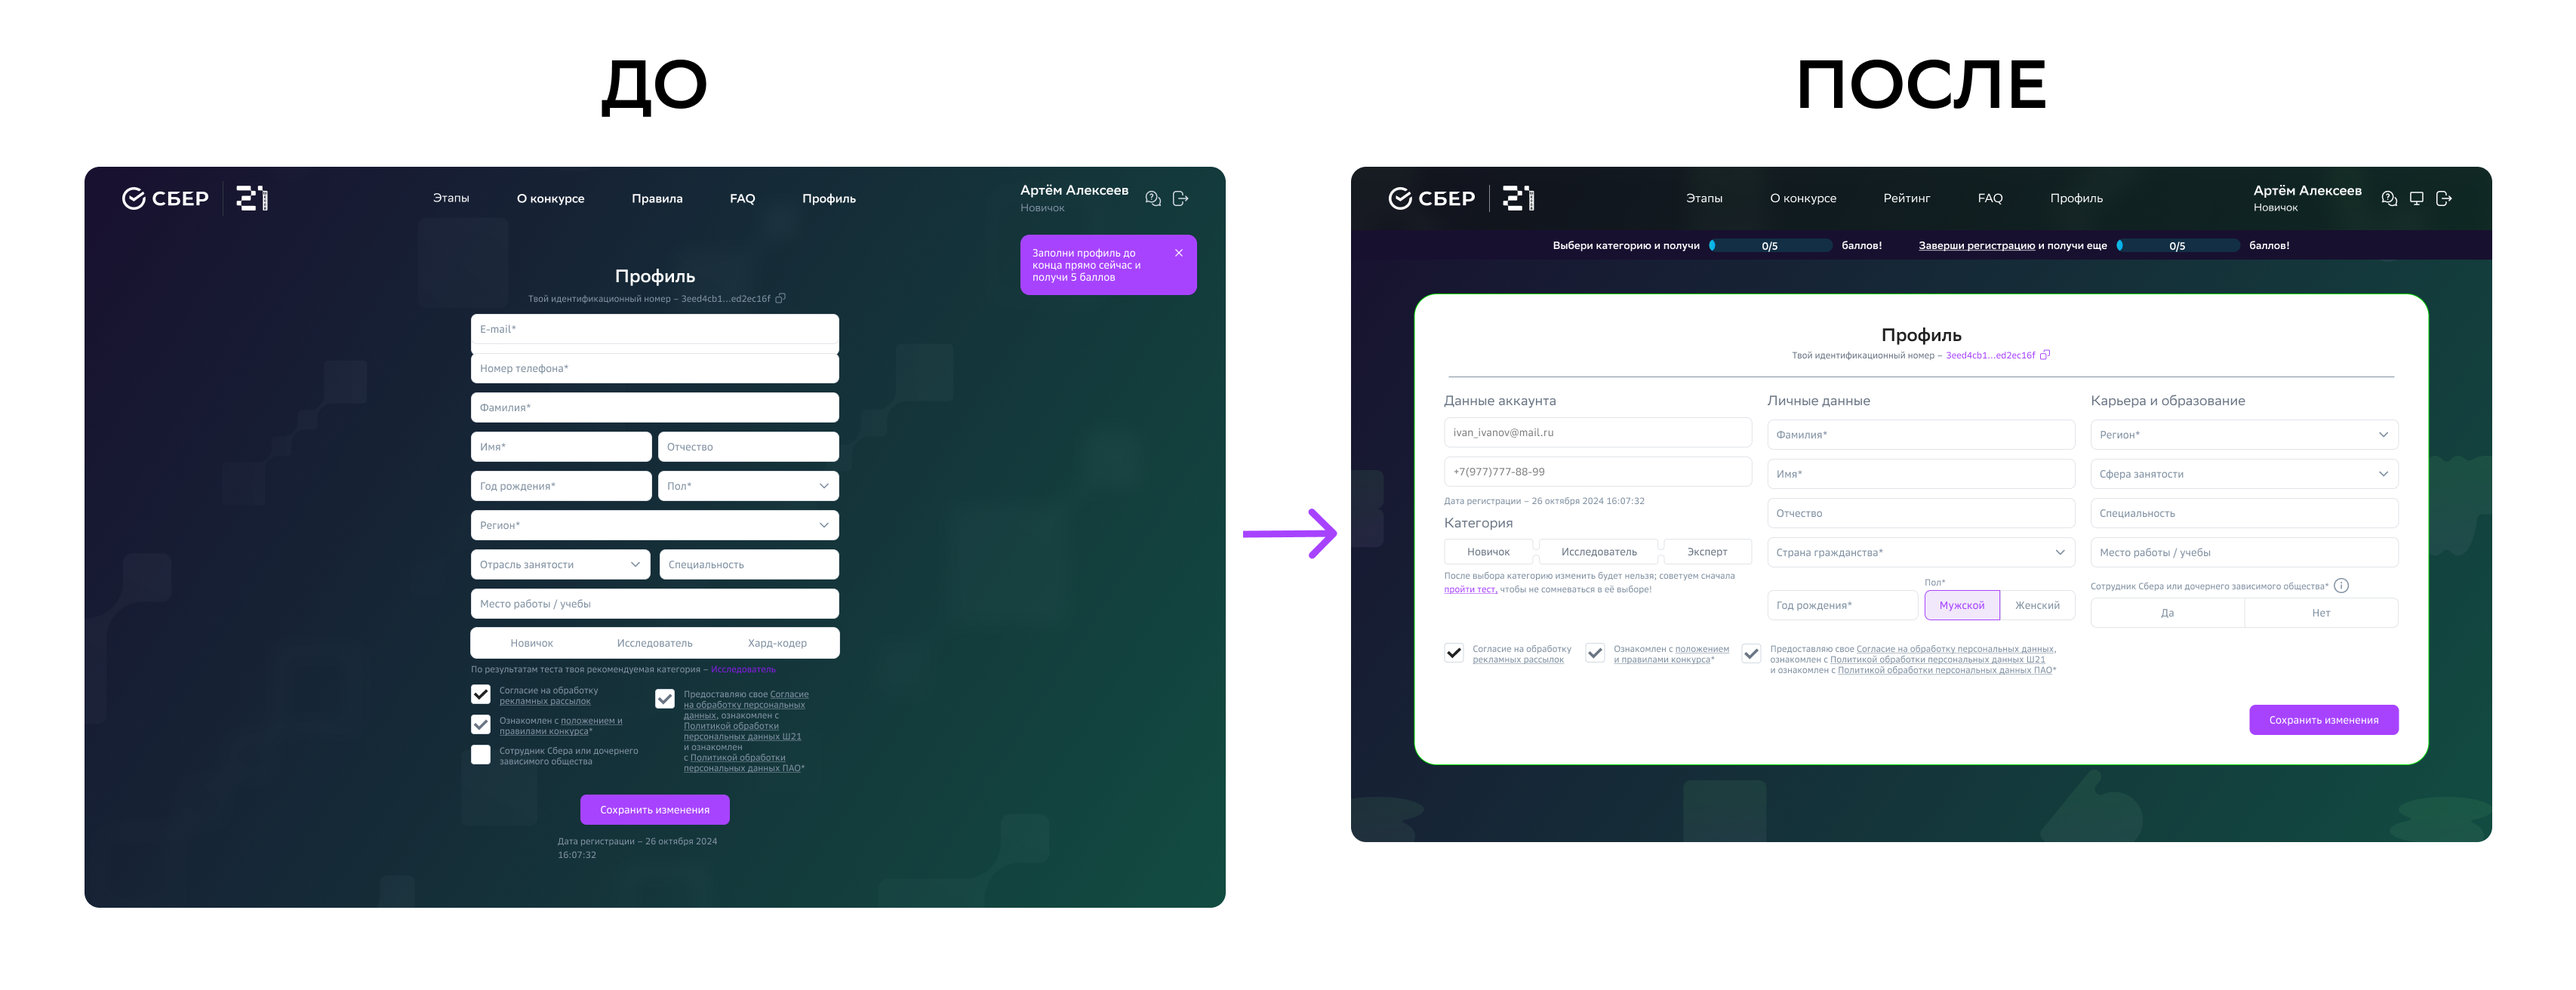
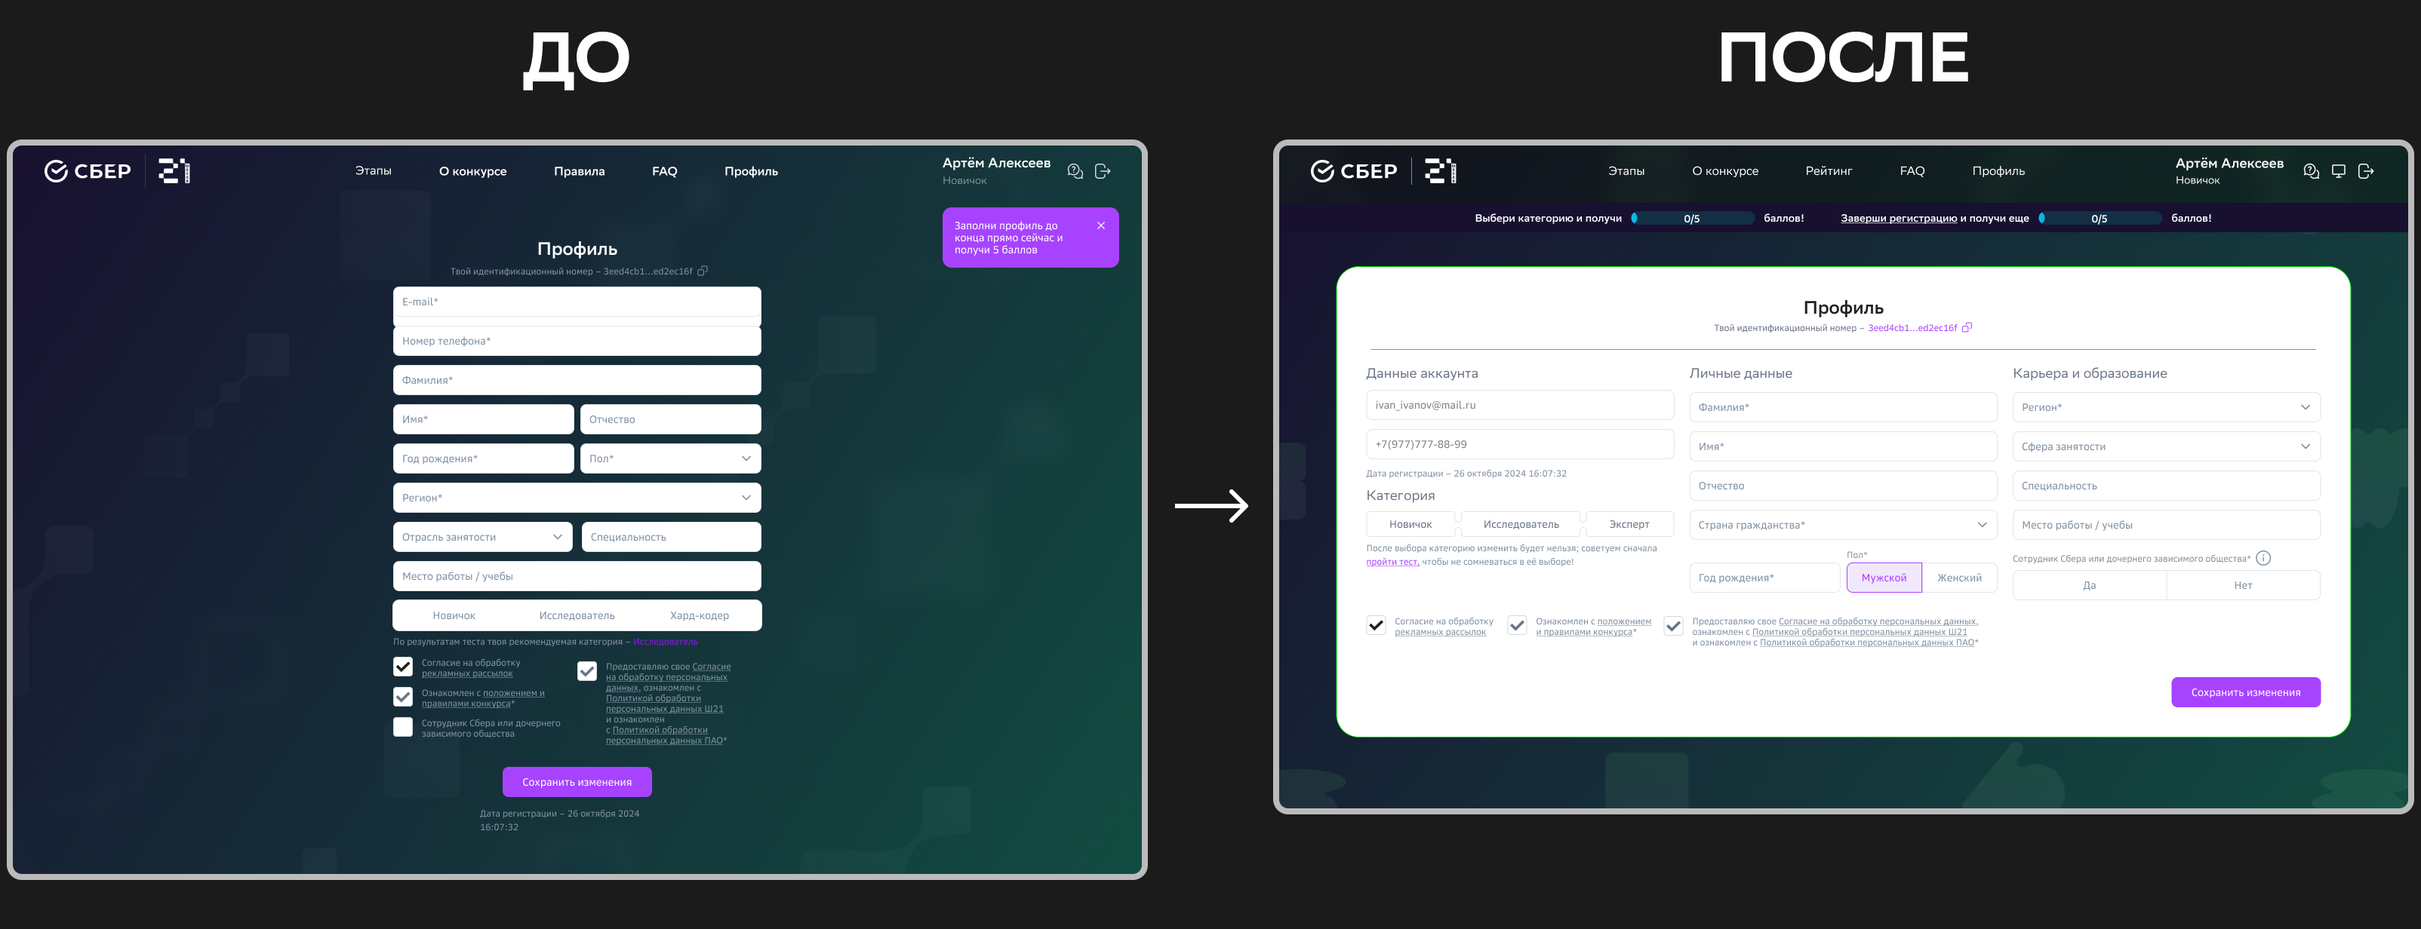
Replace marathon case screenshots and remove AS IS figure

diff --git a/index.html b/index.html
@@ -92,18 +92,18 @@
             <li>Незаметная кнопка регистрации. Главное действие терялось среди контента, участнику приходилось искать, где зарегистрироваться.</li>
             <li>Разнобой в типографике. Лендинг, кабинет и тестирование выглядели как три разных продукта, стиль не соответствовал новой дизайн-системе Сбера и снижал доверие к платформе.</li>
             </ul>
-            <figure class="case-figure case-figure--wide"><a class="case-image-link" href="images/marathon-as-is.png" target="_blank" rel="noopener" aria-label="Открыть изображение: AS IS: старый лендинг и этапы конкурса"><img class="case-image" src="images/marathon-as-is.png" alt="AS IS: старый лендинг и этапы конкурса" width="3413" height="1746" loading="lazy" decoding="async"></a><figcaption>AS IS: старый лендинг и этапы конкурса</figcaption></figure>
+
             </section>
             <section class="case-section case-section--marathon"><h3>Гипотезы и решения</h3>
             <p>Если перестроить лендинг вокруг регистрации, конверсия вырастет. Вынесла призыв к регистрации в первый экран и закрепила кнопку при скролле. Разгрузила главную: блоки про уровни, этапы и призы сократила и переписала так, чтобы они снимали сомнения перед регистрацией, а не просто описывали конкурс. Типографику и компоненты привела к дизайн-системе Сбера.</p>
-            <figure class="case-figure case-figure--wide"><a class="case-image-link" href="images/marathon-landing-comparison.png" target="_blank" rel="noopener" aria-label="Открыть изображение: До/после — лендинг"><img class="case-image" src="images/marathon-landing-comparison.png" alt="До/после — лендинг" width="3413" height="6981" loading="lazy" decoding="async"></a><figcaption>До/после — лендинг</figcaption></figure>
+            <figure class="case-figure case-figure--wide"><a class="case-image-link" href="images/marathon-landing-comparison.png?v=20261105" target="_blank" rel="noopener" aria-label="Открыть изображение: До/после — лендинг"><img class="case-image" src="images/marathon-landing-comparison.png?v=20261105" alt="До/после — лендинг" width="3218" height="6900" loading="lazy" decoding="async"></a><figcaption>До/после — лендинг</figcaption></figure>
             <p>Личный кабинет собрала вокруг пути участника: в разделе «Этапы» марафон показан как трек со статусами, сроками и ближайшим действием. Участник всегда видит, что делать дальше, и не теряется между обучением, тестом и проектным этапом.</p>
-            <figure class="case-figure case-figure--wide"><a class="case-image-link" href="images/marathon-stages-comparison.png" target="_blank" rel="noopener" aria-label="Открыть изображение: До/после — этапы"><img class="case-image" src="images/marathon-stages-comparison.png" alt="До/после — этапы" width="3413" height="1689" loading="lazy" decoding="async"></a><figcaption>До/после — этапы</figcaption></figure>
-            <figure class="case-figure case-figure--wide"><a class="case-image-link" href="images/marathon-stage-dialog-comparison.png" target="_blank" rel="noopener" aria-label="Открыть изображение: До/после — этапы: модальное окно"><img class="case-image" src="images/marathon-stage-dialog-comparison.png" alt="До/после — этапы: модальное окно" width="3413" height="1312" loading="lazy" decoding="async"></a><figcaption>До/после — этапы: модальное окно</figcaption></figure>
-            <figure class="case-figure case-figure--wide"><a class="case-image-link" href="images/marathon-profile-comparison.png" target="_blank" rel="noopener" aria-label="Открыть изображение: До/после — профиль"><img class="case-image" src="images/marathon-profile-comparison.png" alt="До/после — профиль" width="3413" height="1312" loading="lazy" decoding="async"></a><figcaption>До/после — профиль</figcaption></figure>
+            <figure class="case-figure case-figure--wide"><a class="case-image-link" href="images/marathon-stages-comparison.png?v=20261105" target="_blank" rel="noopener" aria-label="Открыть изображение: До/после — этапы"><img class="case-image" src="images/marathon-stages-comparison.png?v=20261105" alt="До/после — этапы" width="3208" height="1630" loading="lazy" decoding="async"></a><figcaption>До/после — этапы</figcaption></figure>
+            <figure class="case-figure case-figure--wide"><a class="case-image-link" href="images/marathon-stage-dialog-comparison.png?v=20261105" target="_blank" rel="noopener" aria-label="Открыть изображение: До/после — этапы: модальное окно"><img class="case-image" src="images/marathon-stage-dialog-comparison.png?v=20261105" alt="До/после — этапы: модальное окно" width="3208" height="1225" loading="lazy" decoding="async"></a><figcaption>До/после — этапы: модальное окно</figcaption></figure>
+            <figure class="case-figure case-figure--wide"><a class="case-image-link" href="images/marathon-profile-comparison.png?v=20261105" target="_blank" rel="noopener" aria-label="Открыть изображение: До/после — профиль"><img class="case-image" src="images/marathon-profile-comparison.png?v=20261105" alt="До/после — профиль" width="3208" height="1232" loading="lazy" decoding="async"></a><figcaption>До/после — профиль</figcaption></figure>
             <p>Если участник видит своё место среди других и свой прогресс в баллах, у него больше причин дойти до конца. Добавила в «Этапы» статистику: сколько баллов набрал участник и на каком месте он находится в своей категории. Прохождение этапов превращается в понятное соревнование, а не в список заданий.</p>
             <p>Если дать способ набрать дополнительные баллы, участники будут возвращаться в кабинет. Ввела в «Этапы» блок интеграций с партнёрами в формате Stories: участник открывает карточку партнёра, выполняет задание и получает дополнительные баллы. Формат знаком по соцсетям, поэтому не требует объяснений и хорошо работает на мобильных.</p>
-            <figure class="case-figure case-figure--wide"><a class="case-image-link" href="images/marathon-partner-stories.png" target="_blank" rel="noopener" aria-label="Открыть изображение: Stories партнёров"><img class="case-image" src="images/marathon-partner-stories.png" alt="Stories партнёров" width="1512" height="1660" loading="lazy" decoding="async"></a><figcaption>Stories партнёров</figcaption></figure>
+            <figure class="case-figure case-figure--wide"><a class="case-image-link" href="images/marathon-partner-stories.png?v=20261105" target="_blank" rel="noopener" aria-label="Открыть изображение: Stories партнёров"><img class="case-image" src="images/marathon-partner-stories.png?v=20261105" alt="Stories партнёров" width="1512" height="1660" loading="lazy" decoding="async"></a><figcaption>Stories партнёров</figcaption></figure>
             <p>Тестирование сделала асинхронным: участник проходит его в удобное время в рамках окна этапа. На экране только нужное: один вопрос за раз, прогресс и оставшееся время, ответы сохраняются, чтобы обрыв связи не обнулял результат.</p>
             <figure class="case-figure case-figure--wide"><a class="case-image-link" href="images/marathon-testing.png" target="_blank" rel="noopener" aria-label="Открыть изображение: Прохождение тестирования"><img class="case-image" src="images/marathon-testing.png" alt="Прохождение тестирования" width="1512" height="982" loading="lazy" decoding="async"></a><figcaption>Прохождение тестирования</figcaption></figure>
             <p>Мобильную версию проектировала как отдельные сценарии, а не как сжатый десктоп: регистрация, тест и Stories партнёров проходятся с телефона одной рукой. Сценарии «Виртуальный мир» и «Самокат» — партнёрские Stories, за которые пользователи получают баллы.</p>
